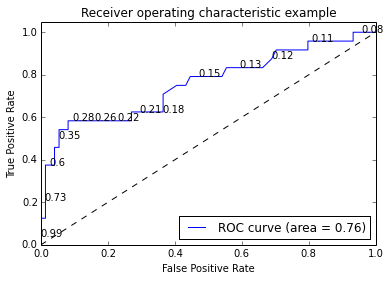
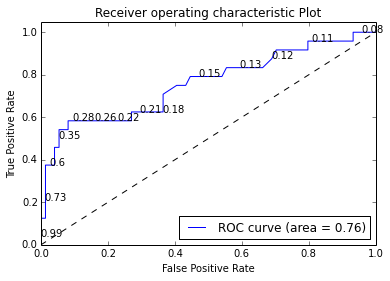
update plot legend

Changed region(s): [[0.1846, 0.0285, 0.8615, 0.0854]]

diff --git a/The Analytic Edge/Week3/modelingexpert.md b/The Analytic Edge/Week3/modelingexpert.md
@@ -298,10 +298,13 @@ R's ROCR package.
     plt.ylim([0.0, 1.05])
     plt.xlabel('False Positive Rate')
     plt.ylabel('True Positive Rate')
-    plt.title('Receiver operating characteristic example')
+    plt.title('Receiver operating characteristic Plot')
     plt.legend(loc="lower right")
     plt.show()
 
 
 ![png](modelingexpert_files/modelingexpert_35_0.png)
 
+
+
+    
